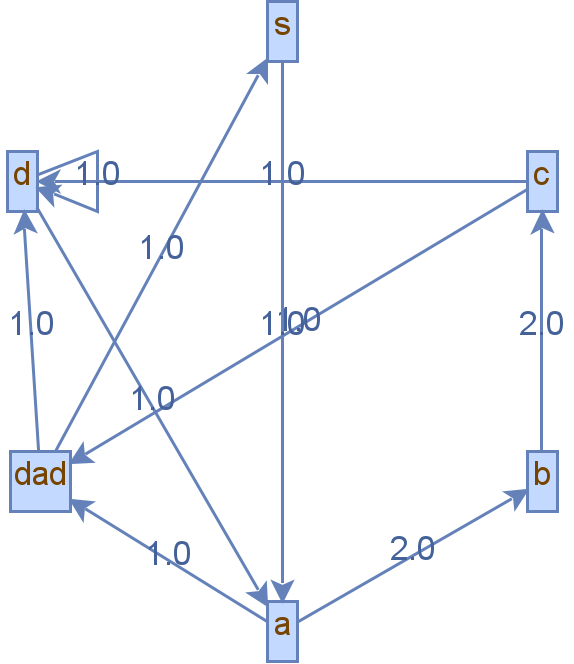
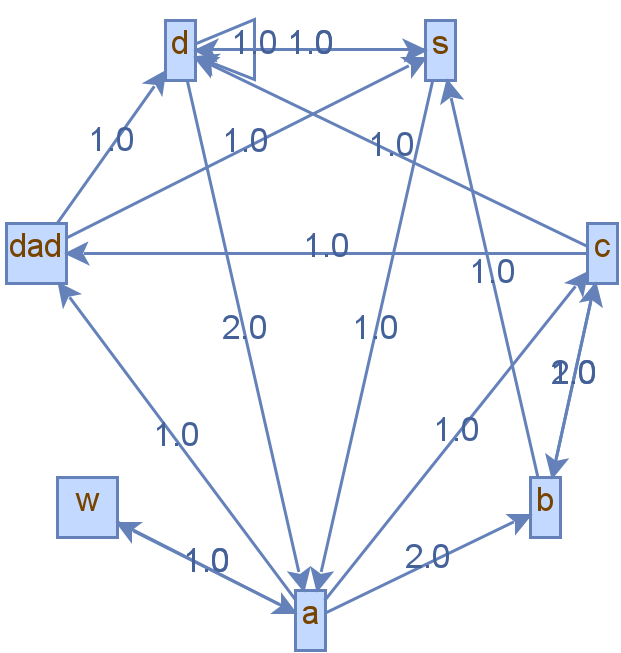
1 and 2 in B2

diff --git a/src/main/java/org/example/TextProcessor.java b/src/main/java/org/example/TextProcessor.java
@@ -101,34 +101,48 @@ public class TextProcessor {
                     String word1 = scanner.next().toLowerCase();
                     System.out.print("Enter word2: ");
                     String word2 = scanner.next().toLowerCase();
+                    long startTime = System.nanoTime();
                     String result = queryBridgeWords(word1, word2);
                     System.out.println(result);
+                    long endTime = System.nanoTime();
+                    System.out.println("Execution time: " + (endTime - startTime) + " ns");
                 }
                 case "3" -> {
                     // 清空缓冲区
                     scanner.nextLine();
                     System.out.print("Enter a new text:");
                     String Text = scanner.nextLine().toLowerCase();
+                    long startTime = System.nanoTime();
                     String newText = generateNewText(Text);
                     System.out.println(newText);
+                    long endTime = System.nanoTime();
+                    System.out.println("Execution time: " + (endTime - startTime) + " ns");
                 }
                 case "4" -> {
                     System.out.print("Enter word3: ");
                     String word3 = scanner.next().toLowerCase();
                     System.out.print("Enter word4: ");
                     String word4 = scanner.next().toLowerCase();
+                    long startTime = System.nanoTime();
                     String shortestPath = calcShortestPath(word3, word4);
                     System.out.println(shortestPath);
+                    long endTime = System.nanoTime();
+                    System.out.println("Execution time: " + (endTime - startTime) + " ns");
                 }
                 case "5" -> {
+                    long startTime = System.nanoTime();
                     String walkPath = randomWalk();
                     System.out.println(walkPath);
+
                     try (PrintWriter writer = new PrintWriter(new FileWriter("output.txt"))) {
                         writer.println(walkPath);
                         System.out.println("Content has been written to the file.");
                     } catch (IOException e) {
                         e.printStackTrace();
                     }
+
+                    long endTime = System.nanoTime();
+                    System.out.println("Execution time: " + (endTime - startTime) + " ns");
                 }
                 case "0" -> System.out.println("退出程序");
                 default -> System.out.println("无效的选择，请重新选择");
@@ -147,7 +161,8 @@ public class TextProcessor {
         neighbors.put(wordB, neighbors.getOrDefault(wordB, 0) + 1);
     }
 
-    static void showDirectedGraph(){
+    //辅助函数，创建带权有向图
+    private static DefaultDirectedWeightedGraph<String, DefaultWeightedEdge> createDirectedWeightedGraph(){
         //创建一个有向图
         DefaultDirectedWeightedGraph<String, DefaultWeightedEdge> jgraphtGraph = new DefaultDirectedWeightedGraph<>(DefaultWeightedEdge.class);
         // 添加顶点
@@ -170,7 +185,11 @@ public class TextProcessor {
                 }
             }
         }
+        return jgraphtGraph;
+    }
 
+    static void showDirectedGraph(){
+        DefaultDirectedWeightedGraph<String, DefaultWeightedEdge> jgraphtGraph = createDirectedWeightedGraph();
         JGraphXAdapter<String, DefaultWeightedEdge> jGraphXAdapter = new JGraphXAdapter<>(jgraphtGraph);
         jGraphXAdapter.setEdgeLabelsMovable(true); // 允许移动标签
 
@@ -224,7 +243,7 @@ public class TextProcessor {
             return "No word1 or word2 in the graph!";
         }
 
-        Set<String> bridgeWords = new HashSet<>();
+        Set<String> bridgeWords;
         bridgeWords = findBridgeWords(word1, word2);
 
         // 根据桥接词的数量返回相应的结果
@@ -305,10 +324,43 @@ public class TextProcessor {
             return "No path exists between " + word1 + " and " + word2 + "!"; // 不存在路径
         }
         path.add(0, word1);
+
+        //标注
+        DefaultDirectedWeightedGraph<String, DefaultWeightedEdge> jgraphtGraph = createDirectedWeightedGraph();
+        // 创建JGraphXAdapter
+        JGraphXAdapter<String, DefaultWeightedEdge> jgxAdapter = new JGraphXAdapter<>(jgraphtGraph);
+        // 将最短路径上的边加粗
+        if (path.size() > 1) {
+            for (int i = 0; i < path.size() - 1; i++) {
+                String sourceVertex = path.get(i);
+                String targetVertex = path.get(i + 1);
+                DefaultWeightedEdge edge = jgraphtGraph.getEdge(sourceVertex, targetVertex);
+                if (edge != null) {
+                    jgxAdapter.setCellStyle("strokeColor=red;strokeWidth=3", new Object[]{jgxAdapter.getEdgeToCellMap().get(edge)});
+                }
+            }
+        }
+        // 设置布局
+        mxIGraphLayout layout = new mxCircleLayout(jgxAdapter);
+        layout.execute(jgxAdapter.getDefaultParent());
+
+        // 创建Swing窗口并添加JGraphX组件
+        JFrame frame = new JFrame();
+        mxGraphComponent graphComponent = new mxGraphComponent(jgxAdapter);
+        frame.getContentPane().add(graphComponent);
+        frame.setTitle("Directed Weighted Graph with Shortest Path");
+        frame.setDefaultCloseOperation(JFrame.EXIT_ON_CLOSE);
+        frame.setSize(400, 400);
+        frame.setVisible(true);
+
         return "Shortest path between " + word1 + " and " + word2 + ": " + String.join("→", path);
     }
 
     static String randomWalk(){
+        if (graph.isEmpty()) {
+            return "Graph is empty";
+        }
+
         Scanner scanner = new Scanner(System.in);
         System.out.println("Press Enter to stop the traversal at any time.");
 
@@ -321,25 +373,12 @@ public class TextProcessor {
         traversal.add(startVertex);
 
         while (true) {
-            Map<String, Integer> neighbors = graph.get(startVertex);
-            if (neighbors == null || neighbors.isEmpty()) {
-                break;
+            //防止运行过快没有空终止
+            try {
+                Thread.sleep(1000);
+            } catch (InterruptedException e) {
+                throw new RuntimeException(e);
             }
-            List<String> availableNeighbors = new ArrayList<>();
-            for (String neighbor : neighbors.keySet()) {
-                String edge = startVertex + " -> " + neighbor;
-                if (!visitedEdges.contains(edge)) {
-                    availableNeighbors.add(neighbor);
-                }
-            }
-            if (availableNeighbors.isEmpty()) {
-                break;
-            }
-            String nextVertex = availableNeighbors.get(random.nextInt(availableNeighbors.size()));
-            String edge = startVertex + " -> " + nextVertex;
-            traversal.add(nextVertex);
-            visitedEdges.add(edge);
-            startVertex = nextVertex;
 
             // 检查用户是否要终止遍历
             try {
@@ -351,12 +390,33 @@ public class TextProcessor {
                 throw new RuntimeException(e);
             }
 
-            //防止运行过快没有空终止
-            try {
-                Thread.sleep(100);
-            } catch (InterruptedException e) {
-                throw new RuntimeException(e);
+            Map<String, Integer> neighbors = graph.get(startVertex);
+            if (neighbors == null || neighbors.isEmpty()) {
+                break; // 如果没有邻接点则结束遍历
             }
+
+            // 获取所有邻接点
+            List<String> allNeighbors = new ArrayList<>(neighbors.keySet());
+            if (allNeighbors.isEmpty()) {
+                break; // 如果没有邻接点则结束遍历
+            }
+
+            // 随机选择一个邻接点
+            String nextVertex = allNeighbors.get(random.nextInt(allNeighbors.size()));
+            String edge = startVertex + " -> " + nextVertex;
+
+            // 如果该边已被访问，则结束遍历
+            if (visitedEdges.contains(edge)) {
+                System.out.println("Edge " + edge + " already visited. Stopping traversal.");
+                break;
+            }
+
+            traversal.add(nextVertex);
+            visitedEdges.add(edge); // 记录该边已被访问
+            startVertex = nextVertex; // 更新当前顶点
+
+            // 输出当前的遍历路径
+            System.out.println(traversal);
 
 
         }
